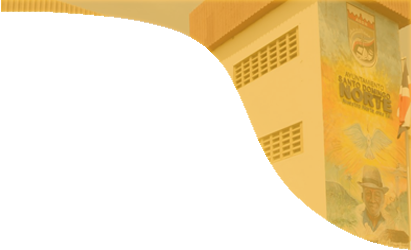
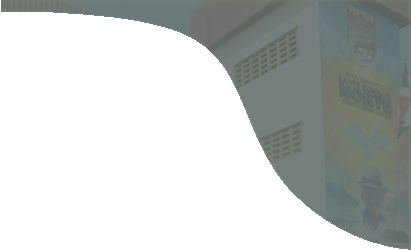
avances 2 de los nuevos cambios sugerido por prensa

diff --git a/lib/src/config/main_full_view.dart b/lib/src/config/main_full_view.dart
@@ -225,13 +225,13 @@ class _MainFullViewerState extends State<MainFullViewer>
                                   children: <Widget>[
                                     Container(
                                       child: Image(
-                                        image: AssetImage("assets/logo.png"),
-                                        height: 40.0,
-                                        width: 40.0,
+                                        image: AssetImage("assets/logo2.png"),
+                                        height: 50.0,
+                                        width: 50.0,
                                       ),
-                                    ),
+                                    ),/*
                                     Text(
-                                      "ASDN " /* snapshot.data.firstName*/,
+                                      "ASDN " *//* snapshot.data.firstName*//*,
                                       textAlign: TextAlign.left,
                                       style: TextStyle(
                                           fontFamily: AppTheme.fontName,
@@ -239,7 +239,7 @@ class _MainFullViewerState extends State<MainFullViewer>
                                           fontSize: 18 + 6 - 6 * topBarOpacity,
                                           letterSpacing: 1.2,
                                           color: AppTheme.white),
-                                    ),
+                                    ),*/
                                   ],
                                 );
                               }

diff --git a/lib/src/config/app_theme.dart b/lib/src/config/app_theme.dart
@@ -5,9 +5,9 @@ class AppTheme {
   static const Color nearlyWhite = Color(0xFFFAFAFA);
   static const Color white = Color(0xFFFFFFFF);
   static const Color background = Color(0xFFF2F3F8);
-  static const Color nearlyDarkOrange = Color(0xFFFFAB40);
+  static const Color nearlyDarkOrange = Color.fromARGB(255, 57, 93, 132);
 
-  static const Color nearlyOrgane = Color(0xFFFFAA70);
+  static const Color nearlyOrgane = Color.fromARGB(255, 54, 77, 102);
   static const Color nearlyBlack = Color(0xFF213333);
   static const Color grey = Color(0xFF3A5160);
   static const Color dark_grey = Color(0xFF313A44);

diff --git a/lib/src/pages/login_page.dart b/lib/src/pages/login_page.dart
@@ -130,7 +130,7 @@ class _LoginPageState extends State<LoginPage> {
                                   "¿Olvidaste la contraseña?",
                                   style: TextStyle(
                                       fontSize: 15,
-                                      color: Constants.orangeDark),
+                                      color: AppTheme.nearlyDarkOrange),
                                 ),
                               ),
                             ),

diff --git a/lib/src/config/bottom_bar_view.dart b/lib/src/config/bottom_bar_view.dart
@@ -151,7 +151,7 @@ class _BottomBarViewState extends State<BottomBarView>
                         gradient: LinearGradient(
                             colors: [
                               AppTheme.nearlyDarkOrange,
-                              Color(0xFFFFAB40),
+                              AppTheme.nearlyOrgane,
                             ],
                             begin: Alignment.topLeft,
                             end: Alignment.bottomRight),
